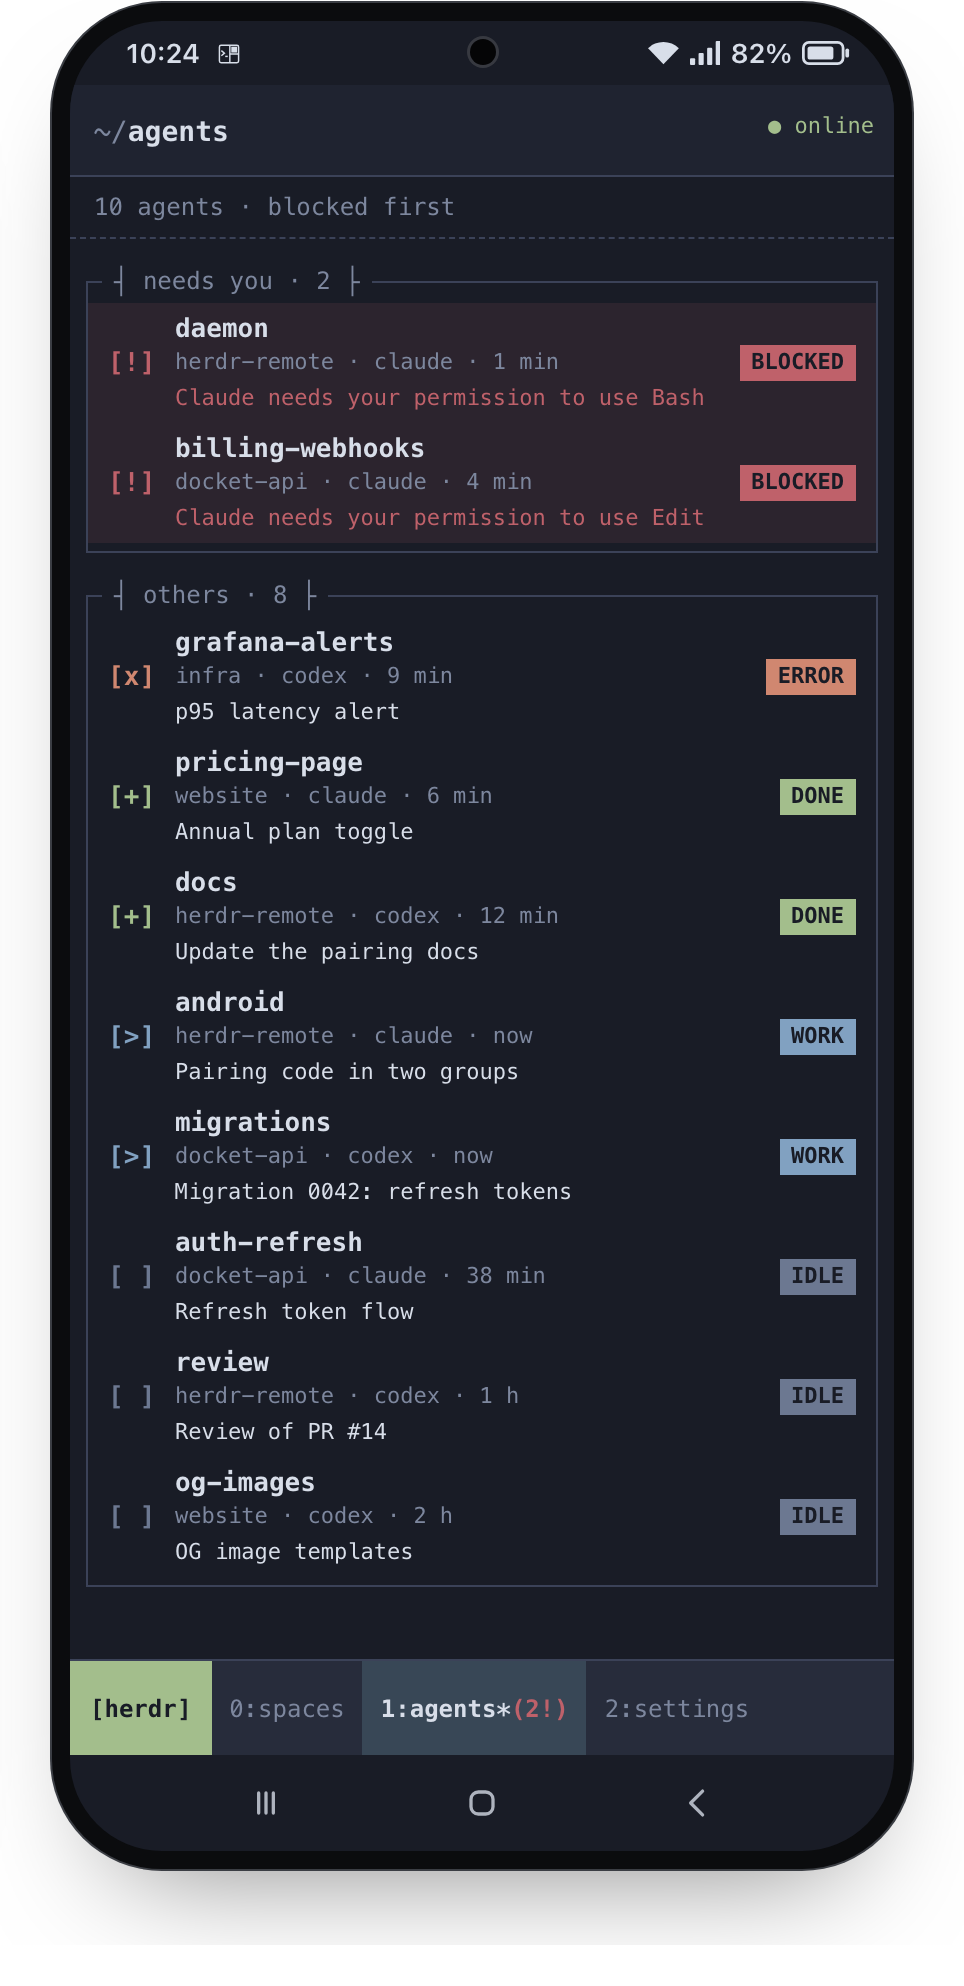
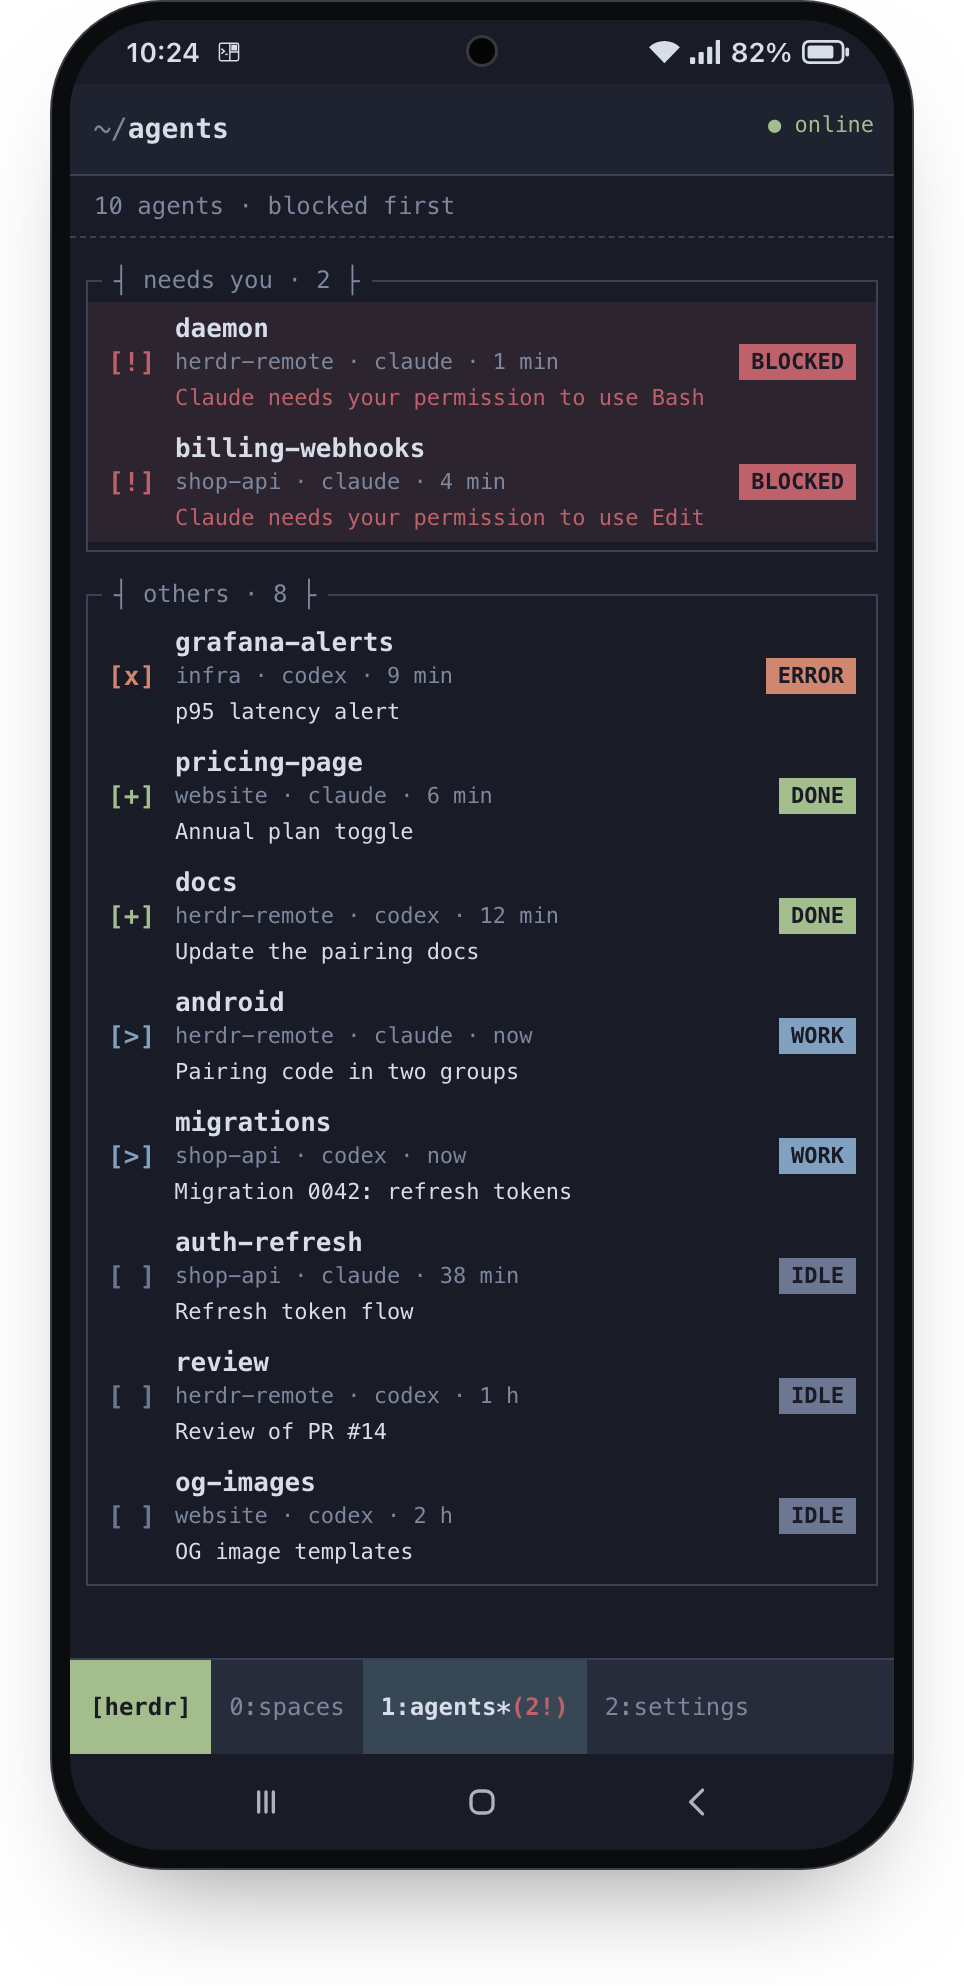
Prepare the repo to go public
- LICENSE: MIT. The bundled xterm.js (MIT) and JetBrains Mono (OFL 1.1)
  keep their own licenses.
- SECURITY.md: report vulnerabilities through GitHub private
  vulnerability reporting. Scope and trust boundary (ADR 0018).
- README.md: not affiliated with the makers of Herdr, a Security
  section (a paired phone can approve commands, revoke a lost phone),
  and a License section.
- HANDOFF.md: remove the Tailscale addresses and device names, and the
  "(private)" note.
- design/mockups.js: the sample space "docket-api" is now "shop-api".
  docs/assets/screens/agents.png and spaces.png are rendered again from
  the mockups with headless Chrome.

diff --git a/design/mockups.js b/design/mockups.js
@@ -52,7 +52,7 @@ const A = {
   },
   billing: {
     tab: "billing-webhooks",
-    space: "docket-api",
+    space: "shop-api",
     app: "claude",
     state: "blocked",
     kind: "permission",
@@ -62,7 +62,7 @@ const A = {
   },
   migr: {
     tab: "migrations",
-    space: "docket-api",
+    space: "shop-api",
     app: "codex",
     state: "working",
     title: "Migration 0042: refresh tokens",
@@ -70,7 +70,7 @@ const A = {
   },
   auth: {
     tab: "auth-refresh",
-    space: "docket-api",
+    space: "shop-api",
     app: "claude",
     state: "idle",
     title: "Refresh token flow",
@@ -103,7 +103,7 @@ const A = {
 };
 const SPACES = [
   { name: "herdr-remote", agents: ["daemon", "android", "docs", "review"] },
-  { name: "docket-api", agents: ["billing", "migr", "auth"] },
+  { name: "shop-api", agents: ["billing", "migr", "auth"] },
   { name: "website", agents: ["pricing", "og"] },
   { name: "infra", agents: ["alerts"] },
 ];

diff --git a/HANDOFF.md b/HANDOFF.md
@@ -18,7 +18,7 @@ Read this first in a new session. It gives the state on 2026-11-12 and what is l
 
 | What           | Where                                                                                                                                                               |
 | -------------- | ------------------------------------------------------------------------------------------------------------------------------------------------------------------- |
-| Repo           | `/Users/zeus/code/herdr-remote`, branch `main`. Remote: `Captain-Sangam/herdr-remote` on GitHub (private). Work lands through pull requests                         |
+| Repo           | `/Users/zeus/code/herdr-remote`, branch `main`. Remote: `Captain-Sangam/herdr-remote` on GitHub. Work lands through pull requests                                   |
 | Docs           | `docs/` (index `docs/README.md`), `AGENTS.md`, `README.md`. Images in `docs/assets/`                                                                                |
 | Daemon code    | `daemon/` (Go)                                                                                                                                                      |
 | Android app    | `android/` (Kotlin, Compose). The APK is at `android/app/build/outputs/apk/debug/app-debug.apk`                                                                     |
@@ -62,7 +62,7 @@ Read this first in a new session. It gives the state on 2026-11-12 and what is l
   - CI runs the format check and the short daemon tests (`go test -short`), each capped at 30 s. The full daemon suite and the app tests and build run locally.
 - **Done since 2026-11-09:**
   - `install.sh` waits for `bootout` to finish before `bootstrap` (`52ee7fe`).
-  - Tailscale runs on the Mac (`macbook-pro-5`, `100.107.60.83`) and on the phone (`ajays-s26`, `100.111.88.15`), with the same account.
+  - Tailscale runs on the Mac and on the phone, with the same account.
   - Two app fixes (`d3cd35f`):
     - "Notify me" crashed: biometric 1.1.0 pulls `fragment` 1.2.5, which rejects the permission request code. `fragment` 1.8.6 is now pinned.
     - Content sat under the 3-button navigation bar. The root now uses `safeDrawingPadding()`, with `adjustResize`.

diff --git a/README.md b/README.md
@@ -4,6 +4,8 @@
 
 herdr-remote lets you watch and unblock the coding agents in Herdr.app on your Mac from an Android phone. The phone talks over Wi-Fi or Tailscale to a small daemon on the Mac, with mutual TLS and no relay server.
 
+herdr-remote is an independent project. It is not made by, or affiliated with, the makers of Herdr.
+
 ## Screens
 
 <table>
@@ -93,7 +95,15 @@ The script builds `~/.local/bin/herdr-remoted`, loads the LaunchAgent `dev.herdr
 - For full Codex transcripts, set Herdr's Codex launcher to `["codex", "--no-daemon"]` in Herdr settings (`new-menu.agents`).
 - For access away from home, sign in to Tailscale on both devices before you pair.
 
+## Security
+
+A paired phone can approve commands and send messages to the agents on your Mac. Pair only phones that you own. If you lose a phone, revoke it at once ([`docs/operations.md`](docs/operations.md#revoke-a-phone)). The security model is in [`docs/architecture.md`](docs/architecture.md). To report a vulnerability, see [`SECURITY.md`](SECURITY.md).
+
 ## More
 
 - [`docs/`](docs/README.md): the product, the architecture, the decisions (ADRs), the API, deployment, operations and testing.
 - [`AGENTS.md`](AGENTS.md): the build, test and format commands, and the conventions for this repo.
+
+## License
+
+[MIT](LICENSE). The bundled xterm.js (MIT) and JetBrains Mono (OFL 1.1) keep their own licenses, in `android/app/src/main/assets/`.

diff --git a/SECURITY.md b/SECURITY.md
@@ -1,0 +1,17 @@
+# Security
+
+## Report a vulnerability
+
+Do not open a public issue. Use [private vulnerability reporting](https://github.com/Captain-Sangam/herdr-remote/security/advisories/new) on GitHub.
+
+Include:
+
+- what you found
+- the steps to reproduce it
+- the versions of herdr-remote, Herdr.app and Android.
+
+## Scope
+
+- **In scope:** `herdr-remoted`, the pairing flow, the Herdr mod and the Android app.
+- **Out of scope:** Herdr.app, `hc`, Claude Code and Codex. Report those to their makers.
+- Processes that run as the same macOS user are trusted ([ADR 0018](docs/adr/0018-trust-boundary.md)).
